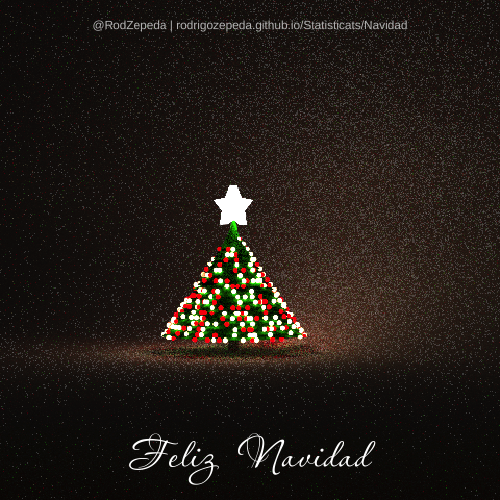
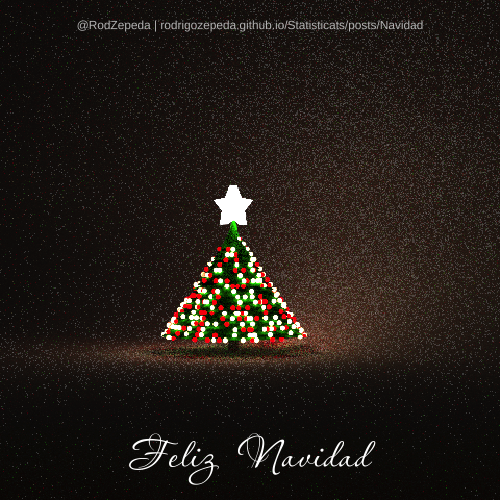
improved image

Changed region(s): [[0.15, 0.03, 0.84, 0.06]]

diff --git a/docs/posts/Navidad/index.html b/docs/posts/Navidad/index.html
@@ -484,7 +484,7 @@ Warning
 <span id="cb9-2"><a href="#cb9-2" aria-hidden="true" tabindex="-1"></a><span class="fu">render_scene</span>(scene, </span>
 <span id="cb9-3"><a href="#cb9-3" aria-hidden="true" tabindex="-1"></a>             <span class="at">width =</span> <span class="dv">500</span>,    <span class="co">#Ancho en pixeles</span></span>
 <span id="cb9-4"><a href="#cb9-4" aria-hidden="true" tabindex="-1"></a>             <span class="at">height =</span> <span class="dv">500</span>,   <span class="co">#Alto en pixeles</span></span>
-<span id="cb9-5"><a href="#cb9-5" aria-hidden="true" tabindex="-1"></a>             <span class="at">samples =</span> <span class="dv">10000</span>, <span class="co">#Suficientes muestras!</span></span>
+<span id="cb9-5"><a href="#cb9-5" aria-hidden="true" tabindex="-1"></a>             <span class="at">samples =</span> <span class="dv">1000</span>, <span class="co">#Suficientes muestras!</span></span>
 <span id="cb9-6"><a href="#cb9-6" aria-hidden="true" tabindex="-1"></a>             <span class="at">preview =</span> F, </span>
 <span id="cb9-7"><a href="#cb9-7" aria-hidden="true" tabindex="-1"></a>             <span class="at">parallel =</span> T,</span>
 <span id="cb9-8"><a href="#cb9-8" aria-hidden="true" tabindex="-1"></a>             <span class="at">lookfrom =</span> <span class="fu">c</span>(<span class="fl">50.10</span>, <span class="fl">7.25</span>, <span class="fl">60.13</span>), </span>
@@ -525,7 +525,7 @@ Warning
 <span id="cb10-15"><a href="#cb10-15" aria-hidden="true" tabindex="-1"></a>  <span class="fu">geom_text</span>(<span class="fu">aes</span>(<span class="at">x =</span> <span class="fl">0.5</span>, <span class="at">y =</span> <span class="fl">0.1</span>, <span class="at">label =</span> <span class="st">"Feliz Navidad"</span>), <span class="at">color =</span> <span class="st">"white"</span>,</span>
 <span id="cb10-16"><a href="#cb10-16" aria-hidden="true" tabindex="-1"></a>            <span class="at">family =</span> <span class="st">"pconflict"</span>, <span class="at">size =</span> <span class="dv">15</span>) <span class="sc">+</span></span>
 <span id="cb10-17"><a href="#cb10-17" aria-hidden="true" tabindex="-1"></a>  <span class="fu">geom_text</span>(<span class="fu">aes</span>(<span class="at">x =</span> <span class="fl">0.5</span>, <span class="at">y =</span> <span class="fl">0.95</span>,</span>
-<span id="cb10-18"><a href="#cb10-18" aria-hidden="true" tabindex="-1"></a>                <span class="at">label =</span> <span class="st">"@RodZepeda | rodrigozepeda.github.io/Statisticats/Navidad"</span>),</span>
+<span id="cb10-18"><a href="#cb10-18" aria-hidden="true" tabindex="-1"></a>                <span class="at">label =</span> <span class="st">"@RodZepeda | rodrigozepeda.github.io/Statisticats/posts/Navidad"</span>),</span>
 <span id="cb10-19"><a href="#cb10-19" aria-hidden="true" tabindex="-1"></a>            <span class="at">color =</span> <span class="st">"gray75"</span>,</span>
 <span id="cb10-20"><a href="#cb10-20" aria-hidden="true" tabindex="-1"></a>            <span class="at">size =</span> <span class="dv">3</span>) </span>
 <span id="cb10-21"><a href="#cb10-21" aria-hidden="true" tabindex="-1"></a><span class="fu">ggsave</span>(<span class="st">"arbolito_navidad_2022_es.png"</span>, drawplot, <span class="at">dpi =</span> <span class="dv">100</span>, <span class="at">width =</span> <span class="dv">500</span>, <span class="at">height =</span> <span class="dv">500</span>, <span class="at">units =</span> <span class="st">"px"</span>)  </span></code><button title="Copy to Clipboard" class="code-copy-button"><i class="bi"></i></button></pre></div>
@@ -778,7 +778,7 @@ Warning
 <span id="cb19-2"><a href="#cb19-2" aria-hidden="true" tabindex="-1"></a><span class="fu">render_scene</span>(scene, </span>
 <span id="cb19-3"><a href="#cb19-3" aria-hidden="true" tabindex="-1"></a>             <span class="at">width =</span> <span class="dv">500</span>,    <span class="co">#Pixel width</span></span>
 <span id="cb19-4"><a href="#cb19-4" aria-hidden="true" tabindex="-1"></a>             <span class="at">height =</span> <span class="dv">500</span>,   <span class="co">#Pixel height</span></span>
-<span id="cb19-5"><a href="#cb19-5" aria-hidden="true" tabindex="-1"></a>             <span class="at">samples =</span> <span class="dv">10000</span>, <span class="co">#Enough samples</span></span>
+<span id="cb19-5"><a href="#cb19-5" aria-hidden="true" tabindex="-1"></a>             <span class="at">samples =</span> <span class="dv">1000</span>, <span class="co">#Enough samples</span></span>
 <span id="cb19-6"><a href="#cb19-6" aria-hidden="true" tabindex="-1"></a>             <span class="at">preview =</span> F, </span>
 <span id="cb19-7"><a href="#cb19-7" aria-hidden="true" tabindex="-1"></a>             <span class="at">parallel =</span> T,</span>
 <span id="cb19-8"><a href="#cb19-8" aria-hidden="true" tabindex="-1"></a>             <span class="at">lookfrom =</span> <span class="fu">c</span>(<span class="fl">50.10</span>, <span class="fl">7.25</span>, <span class="fl">60.13</span>), </span>
@@ -819,7 +819,7 @@ Warning
 <span id="cb20-15"><a href="#cb20-15" aria-hidden="true" tabindex="-1"></a>  <span class="fu">geom_text</span>(<span class="fu">aes</span>(<span class="at">x =</span> <span class="fl">0.5</span>, <span class="at">y =</span> <span class="fl">0.1</span>, <span class="at">label =</span> <span class="st">"Merry Christmas"</span>), <span class="at">color =</span> <span class="st">"white"</span>,</span>
 <span id="cb20-16"><a href="#cb20-16" aria-hidden="true" tabindex="-1"></a>            <span class="at">family =</span> <span class="st">"pconflict"</span>, <span class="at">size =</span> <span class="dv">15</span>) <span class="sc">+</span></span>
 <span id="cb20-17"><a href="#cb20-17" aria-hidden="true" tabindex="-1"></a>  <span class="fu">geom_text</span>(<span class="fu">aes</span>(<span class="at">x =</span> <span class="fl">0.5</span>, <span class="at">y =</span> <span class="fl">0.95</span>,</span>
-<span id="cb20-18"><a href="#cb20-18" aria-hidden="true" tabindex="-1"></a>                <span class="at">label =</span> <span class="st">"@RodZepeda | rodrigozepeda.github.io/Statisticats/Navidad"</span>),</span>
+<span id="cb20-18"><a href="#cb20-18" aria-hidden="true" tabindex="-1"></a>                <span class="at">label =</span> <span class="st">"@RodZepeda | rodrigozepeda.github.io/Statisticats/posts/Navidad"</span>),</span>
 <span id="cb20-19"><a href="#cb20-19" aria-hidden="true" tabindex="-1"></a>            <span class="at">color =</span> <span class="st">"gray75"</span>,</span>
 <span id="cb20-20"><a href="#cb20-20" aria-hidden="true" tabindex="-1"></a>            <span class="at">size =</span> <span class="dv">3</span>) </span>
 <span id="cb20-21"><a href="#cb20-21" aria-hidden="true" tabindex="-1"></a><span class="fu">ggsave</span>(<span class="st">"arbolito_navidad_2022_en.png"</span>, drawplot, <span class="at">dpi =</span> <span class="dv">100</span>, <span class="at">width =</span> <span class="dv">500</span>, <span class="at">height =</span> <span class="dv">500</span>, <span class="at">units =</span> <span class="st">"px"</span>)  </span></code><button title="Copy to Clipboard" class="code-copy-button"><i class="bi"></i></button></pre></div>

diff --git a/docs/index.html b/docs/index.html
@@ -199,7 +199,7 @@ ul.task-list li input[type="checkbox"] {
 
 <div class="quarto-listing quarto-listing-container-default" id="listing-listing">
 <div class="list quarto-listing-default">
-<div class="quarto-post image-right" data-index="0" data-categories="R,rayrender,Navidad / Christmas,gráficas / plots" data-listing-date-sort="1671688800000" data-listing-file-modified-sort="1671750287896" data-listing-reading-time-sort="21.235">
+<div class="quarto-post image-right" data-index="0" data-categories="R,rayrender,Navidad / Christmas,gráficas / plots" data-listing-date-sort="1671688800000" data-listing-file-modified-sort="1671750985200" data-listing-reading-time-sort="21.235">
 <div class="thumbnail">
 <p><a href="./posts/Navidad/index.html"> <img src="./posts/Navidad/arbolito_navidad_2022_en.png" class="thumnail-image"> </a></p>
 </div>
